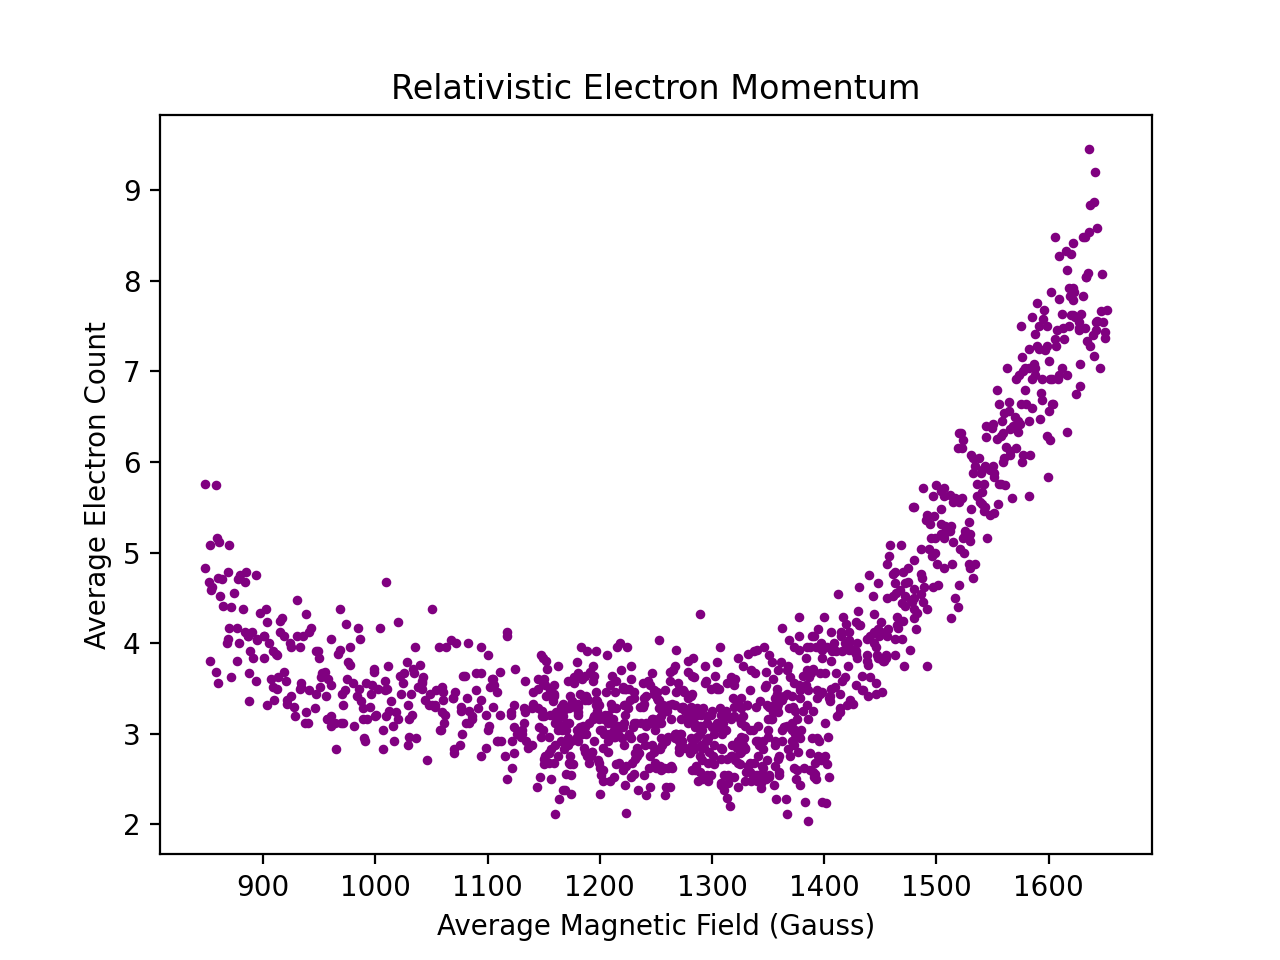
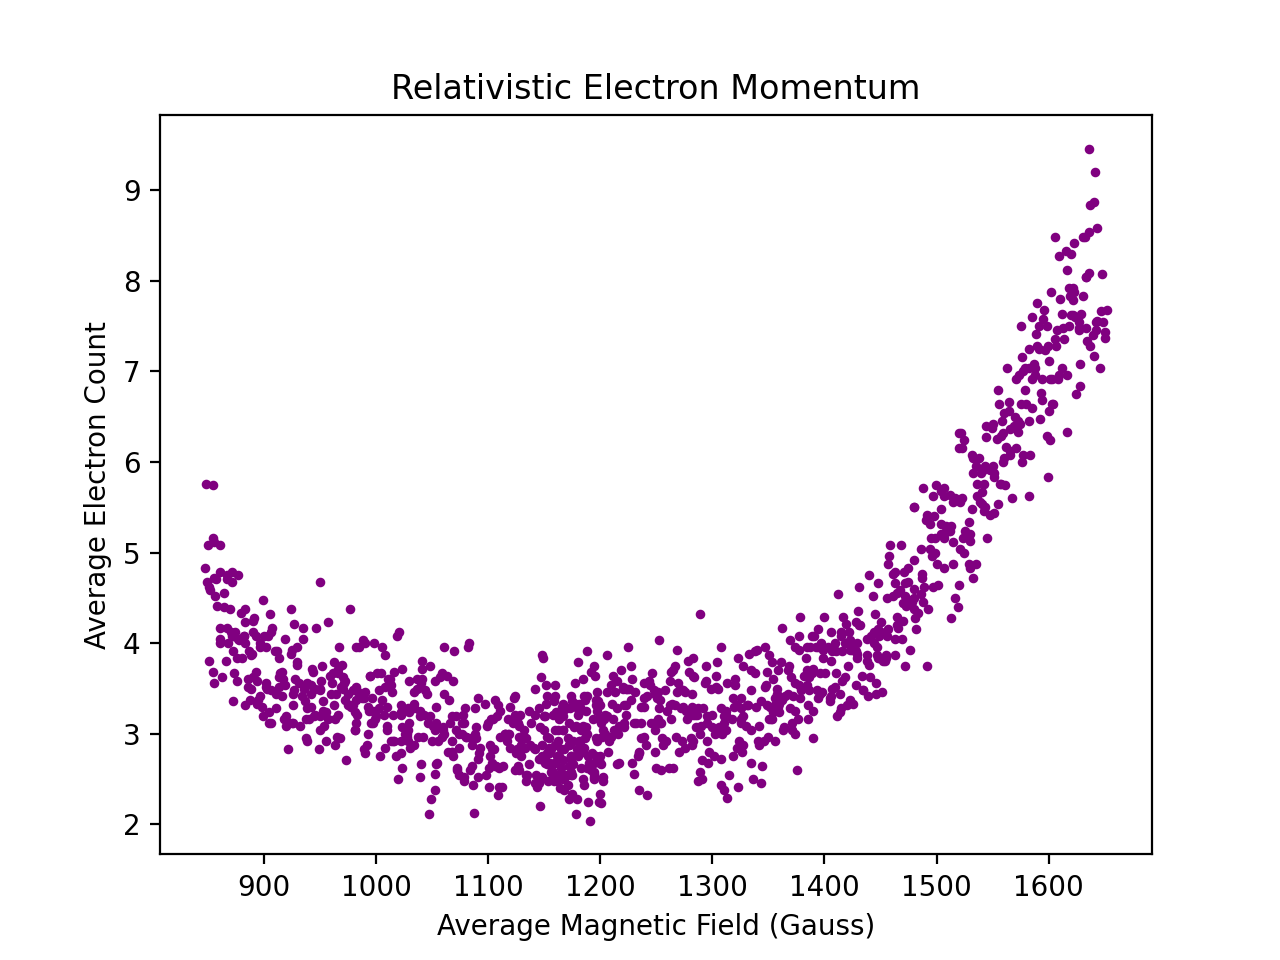
end of day

diff --git a/AEL/REM/REM_Data.py b/AEL/REM/REM_Data.py
@@ -19,12 +19,19 @@ def data_averaging(data, knob_pos, upper_B, lower_B, B_offset):
 
     #averaging data in each group:
     out = []
+    w_list = []
+
     for s, e in zip(bounds[:-1], bounds[1:]): #grouping indices of same knob position
         rows = data[s:e, :] #all rows with same knob position
-        out.append(np.mean(rows, axis=0)) #average all columns in those rows
+        #error analysis:
+        w_j = 1/(np.std(rows[:,4], axis=0))**2 #weights for avg B field standard error
+        w_list.append(w_j)
+        #averaging data columns over each knob position:
+        out.append(np.mean(rows, axis=0)) 
+    
     data_avg = np.vstack(out) #stacking all averaged rows into array
-
-    return data_avg
+    w_array = np.array(w_list)
+    return data_avg, w_array
 
 
 
@@ -36,20 +43,28 @@ def data_averaging(data, knob_pos, upper_B, lower_B, B_offset):
 
 
 
-#--------- load data, calling function ------------------------------#
+#--------- load data ------------------------------------------------#
 data1 = pd.read_excel("Bi848.xlsx", sheet_name=0, header=0).to_numpy()
 data2 = pd.read_excel("Bi1146.xlsx", sheet_name=0, header=0).to_numpy()
-#data3 = pd.read_excel("Arduino_Data.xlsx", sheet_name=2, header=0).to_numpy()
+#data3 = pd.read_excel("Bi1568.xlsx", sheet_name=0, header=0).to_numpy()
 
-data_avg = np.vstack(
-    [data_averaging(data1, 298, 1146, 848, 668),
+#--------- averaging data sets & generating std error of B-Field ---------#
+#inserting data runs from 848 Gauss to ???? Gauss
+avg_data = ([
+     data_averaging(data1, 500, 1146, 848, 668),
      data_averaging(data2, 700, 1568, 1146, 908), 
-     #data_averaging(data3, knob_pos, upper_B, lower_B, B_offset)]
+     #data_averaging(data3,400,     , 1146,    )
 ])
-B_field = data_avg[:, 4]
-pulses  = data_avg[:, 3]
 
+#extracting averaged B-field and pulse counts:
+all_avg = np.vstack([out[0] for out in avg_data])
+B_field = all_avg[:, 4]
+pulses  = all_avg[:, 3]
 
+#extracting error weights and calculating standard error of B-field:
+all_weights = np.concatenate([out[1] for out in avg_data])
+sigma_B = 1/np.sqrt(np.sum(all_weights, axis=0))
+print(f"Standard error of B-field: {sigma_B:.3f} Gauss")
 
 #--------- plotting averaged data ----------#
 plt.figure()
@@ -59,3 +74,4 @@ plt.ylabel("Average Electron Count")
 plt.scatter(B_field, pulses, s=6, marker='o', color='purple')
 plt.savefig("REM.png", dpi=200)
 plt.savefig(os.path.join(downloads_dir, "REM.png"), dpi=200, bbox_inches="tight")
+
